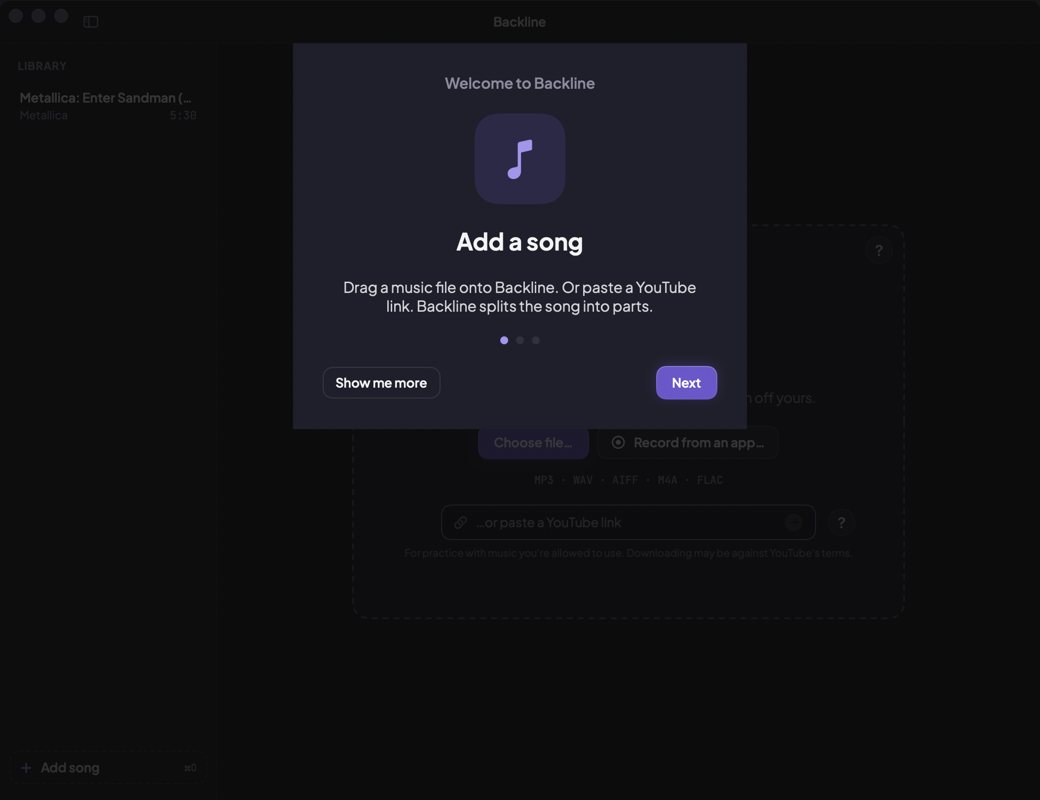
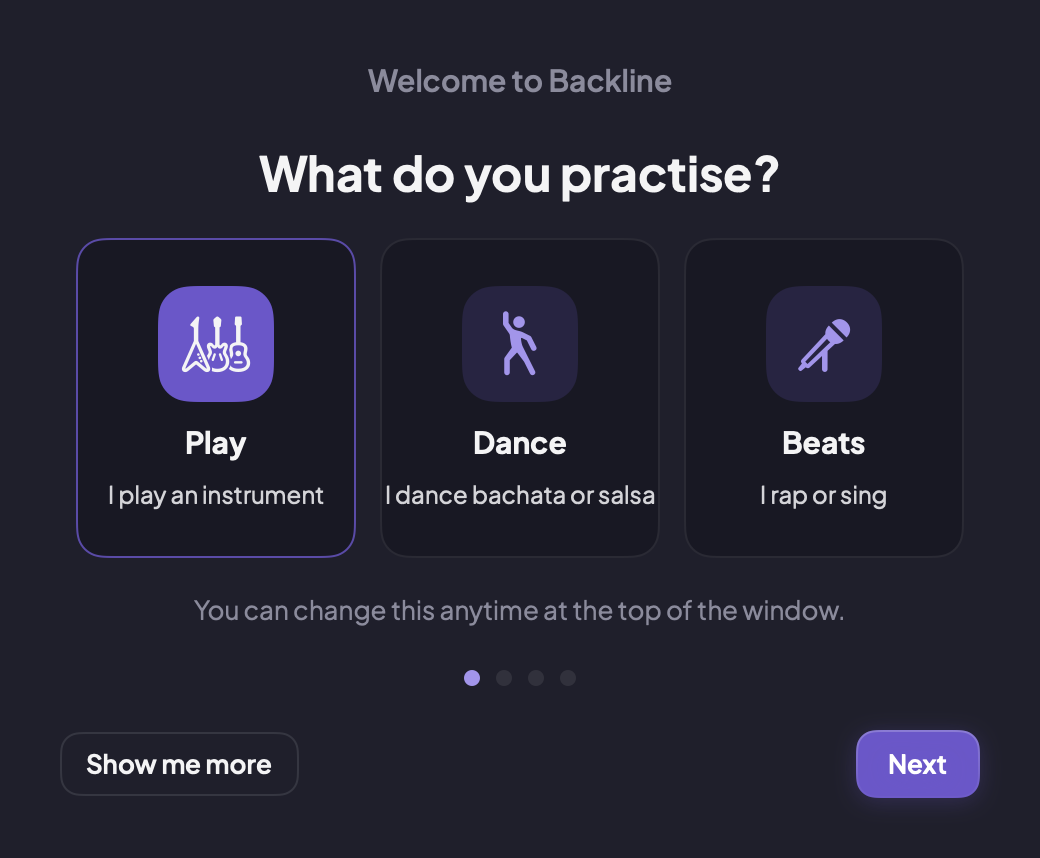
Backline 0.17: README and docs update
Published from the private development repository.

diff --git a/Backline/App/Snapshot.swift b/Backline/App/Snapshot.swift
@@ -254,6 +254,11 @@ enum Snapshotter {
                 NSApp.terminate(nil)
                 return
             }
+            if CommandLine.arguments.contains("--readme-shots") {
+                await readmeShots(model: model, dir: dir)
+                NSApp.terminate(nil)
+                return
+            }
             if CommandLine.arguments.contains("--help-shots") {
                 await helpShots(model: model, dir: dir)
                 NSApp.terminate(nil)
@@ -475,6 +480,105 @@ enum Snapshotter {
     }
 
     /// Welcome cards, every Help page, the sign-in window and the "needs sign-in" error screen.
+    /// `Backline --snapshot <dir> --readme-shots`: every picture in the README, from the real app, using
+    /// Kevin MacLeod's demo songs in the library (the library list is hidden so nothing personal shows).
+    ///   play.png · dance.png · beats.png · dance-count-in.png · mini-player.png · install-welcome.png
+    static func readmeShots(model: AppModel, dir: URL) async {
+        let originalMode = model.appMode
+        model.showSidebar = false
+        func open(_ title: String) async -> SongRecord? {
+            guard let rec = model.library.first(where: { $0.title.localizedCaseInsensitiveContains(title) }) else { return nil }
+            model.select(rec)
+            var waited = 0.0
+            while model.song?.id != rec.id && waited < 30 { try? await Task.sleep(for: .seconds(0.2)); waited += 0.2 }
+            try? await Task.sleep(for: .seconds(1.2))
+            return rec
+        }
+        var log = ""
+
+        // Play: the lead guitar is out, and a section is looping.
+        if await open("Volitile") != nil {
+            model.setMode(.play)
+            model.settings.removed = [.leadGuitar]
+            model.settings.countIn = true
+            if let s = model.sections.dropFirst(2).first { model.loopSection(s) }
+            try? await Task.sleep(for: .seconds(0.9))
+            capture(dir.appendingPathComponent("play.png"))
+            // The floating glass panel doesn't render into a bitmap capture, so the mini player view is drawn
+            // straight from SwiftUI, on the Backline dark colour, with the solid (non-glass) background.
+            GlassSurfaceOverride.forceSolid = true
+            let mini = MiniPlayerView()
+                .environment(model)
+                .frame(width: 440)
+                .padding(18)
+                .background(Theme.bg)
+            let renderer = ImageRenderer(content: mini)
+            renderer.scale = 2
+            if let cg = renderer.cgImage {
+                let rep = NSBitmapImageRep(cgImage: cg)
+                if let png = rep.representation(using: .png, properties: [:]) {
+                    try? png.write(to: dir.appendingPathComponent("mini-player.png"))
+                    log += "mini rendered \(cg.width)x\(cg.height)\n"
+                }
+            }
+            GlassSurfaceOverride.forceSolid = false
+            log += "play ok\n"
+        } else { log += "missing Volitile\n" }
+
+        // Dance: bachata, tap on the 1 already done, Listen for a part, an eight looping.
+        if await open("Big Rock") != nil {
+            model.setMode(.dance)
+            model.setDanceStyle(.bachata)
+            var w = 0.0   // the kit split makes the bongó / güira rows
+            while (model.song?.drumSplit == nil || !model.loadedTracks.contains(.kick)) && w < 240 {
+                try? await Task.sleep(for: .seconds(0.5)); w += 0.5
+            }
+            model.seek(to: 52)
+            model.setOneHere()
+            if let k = model.danceListenParts.first(where: { $0 == .snare || $0 == .hats || $0 == .drums }) { model.toggleSpotlight(k) }
+            model.loopCounts(8)
+            model.settings.countIn = true
+            model.seek(to: model.loopRange?.lowerBound ?? 52)
+            try? await Task.sleep(for: .seconds(0.6))
+            // Count-in: 5, 6, 7, 8.
+            model.togglePlay()
+            for _ in 0..<60 where model.countInBeat < 2 { try? await Task.sleep(for: .seconds(0.05)) }
+            capture(dir.appendingPathComponent("dance-count-in.png"))
+            for _ in 0..<80 where model.countInBeat > 0 || !model.isPlaying { try? await Task.sleep(for: .seconds(0.05)) }
+            try? await Task.sleep(for: .seconds(0.9))
+            capture(dir.appendingPathComponent("dance.png"))
+            model.togglePlay()
+            log += "dance ok rows=\(model.rows.map { model.label($0.kind) })\n"
+        } else { log += "missing Big Rock\n" }
+
+        // Beats: vocals off, the kit split, a 2-bar loop.
+        if await open("Metalmania") != nil {
+            model.setMode(.beats)
+            var w = 0.0
+            while (model.song?.drumSplit == nil || !model.loadedTracks.contains(.kick)) && w < 240 {
+                try? await Task.sleep(for: .seconds(0.5)); w += 0.5
+            }
+            model.seek(to: 40)
+            model.setOneHere()
+            model.loopBars(2)
+            try? await Task.sleep(for: .seconds(0.8))
+            capture(dir.appendingPathComponent("beats.png"))
+            log += "beats ok rows=\(model.rows.map { model.label($0.kind) })\n"
+        } else { log += "missing Metalmania\n" }
+
+        // First run.
+        model.setMode(.play)
+        model.showWelcome = true
+        try? await Task.sleep(for: .seconds(0.9))
+        if let sheet = NSApp.windows.first(where: { $0.isVisible && !($0 is MiniPanel) })?.attachedSheet {
+            captureWindow(sheet, to: dir.appendingPathComponent("install-welcome.png"))
+        }
+        model.showWelcome = false
+        model.appMode = originalMode
+        model.showSidebar = true
+        try? log.write(to: dir.appendingPathComponent("readme-shots.txt"), atomically: true, encoding: .utf8)
+    }
+
     static func helpShots(model: AppModel, dir: URL) async {
         model.showWelcome = true
         try? await Task.sleep(for: .seconds(0.8))

diff --git a/README.md b/README.md
@@ -17,14 +17,41 @@ Backline splits a song into instruments on your Mac. Nothing is uploaded. Pick h
 
 Then loop, slow down or speed up, count in, and save the result as a track.
 
-![Backline with the lead guitar removed](docs/images/mixer.png)
+![Backline in Play mode: the lead guitar is removed and a section is looping](docs/images/play.png)
+
+## Three ways to practise
+
+Switch at the top of any song, or press ⌘1, ⌘2 or ⌘3. Each mode shows only what that kind of practice
+needs, and each song remembers its mode.
+
+### Dance
+
+Made for bachata, salsa and other partner dances. **Listen for** brings one part forward (bongó, güira,
+bass, guitar…) while the rest plays softly. Play the song, **tap on the 1**, and the counts 1 to 8 run
+with the music. Nothing counts until you tap, so a wrong guess never confuses you. Loops are whole
+eights, and the count-in says 5, 6, 7, 8 like a teacher. In bachata the guitars are called requinto and
+segunda, and the drums split into bongó, güira and bombo.
+
+![Backline in Dance mode: Listen for the bongó, counts 1 to 8, bachata](docs/images/dance.png)
+
+<img src="docs/images/dance-count-in.png" alt="The Dance count-in: 5, 6, 7, 8, then the music" width="720">
+
+### Beats
+
+Made for rapping and singing over a beat. The singer starts off. One click loops 1, 2, 4 or 8 bars,
+starting right on the beat. Tap on the 1 and the bar and beat counter runs. The drums split into kick,
+snare, hi-hats and the rest. **Music** holds the guitars and keys, and opens into its parts when you
+click its arrow.
+
+![Backline in Beats mode: the drum kit, a 2 bar loop, and the bar counter](docs/images/beats.png)
 
 ## Quick install
 
 **You need:** a Mac with Apple silicon (M1 or newer, like a 2022 MacBook Air) running macOS 15 Sequoia,
 macOS 26 Tahoe or macOS 27 Golden Gate, and about 2 GB of free space.
 No Terminal and no admin password. The first time it opens, Backline quietly downloads two extra models
-(about 550 MB, once) that make the parts cleaner and split the drums.
+(about 550 MB, once) that make the parts cleaner and split the drums. Until they arrive, everything still
+works with the models built in.
 
 **1. Download.** Click **[Download Backline for Mac](https://github.com/alexpizarro/backline/releases/latest/download/Backline.dmg)**.
 Your browser saves **Backline.dmg** in **Downloads**.
@@ -41,13 +68,24 @@ your Mac asks *"Backline is an app downloaded from the Internet. Are you sure yo
 Click **Open**. That's normal for any app you download, and you only see it once. Backline is signed and
 checked by Apple, so you won't get any other warning.
 
-**4. Say hello.** A short welcome shows you the three things to know. Then drop in a song.
+**4. Say hello.** The welcome asks what you practise: play an instrument, dance, or rap and sing. That
+sets the first mode, and you can change it at the top of the window whenever you like. Then drop in a song.
 
-<img src="docs/images/install-welcome.png" alt="Backline's welcome screen" width="520">
+<img src="docs/images/install-welcome.png" alt="Backline's welcome screen: What do you practise? Play, Dance or Beats" width="520">
 
 **What to expect**
 - The first time you add a song, Backline takes a few seconds to split it (about 5 seconds on an M3 Max,
-  up to a minute on older Macs). After that, it opens instantly.
+  up to a minute on older Macs). After that, it opens instantly. A sharper model then splits it again in
+  the background, and the header says so. You can keep playing, and the cleaner parts swap in at your
+  next pause.
+- **Memory:** Backline keeps the parts of the song you're playing in memory (about 100 MB per minute of
+  song), and the two background models need a few hundred MB more while they run. **16 GB is
+  recommended**, and comfortable for songs up to about 10 minutes. **8 GB works for ordinary 3 to 5 minute
+  songs** if other big apps are closed; on 8 GB, let the cleaner pass finish before you play. On a busy
+  Mac the background steps just take longer. Backline stays usable and you can keep playing.
+- **Speed on an M1:** expect a few tens of seconds before a new song opens, and a few minutes for the
+  cleaner parts. Newer chips are several times faster.
+- **Space:** about 200 MB per song (the parts plus the original, so the cleaner pass can run later).
 - **Record from an app:** the first time, macOS asks if Backline can record your system audio. Click
   **Allow**. Backline only records the app you pick.
 - **YouTube links:** most just work. If YouTube says to sign in, Backline shows a button to sign in on
@@ -56,6 +94,7 @@ checked by Apple, so you won't get any other warning.
   Backline never sees your password.
 - **Help** is built in: choose **Help ▸ Backline Help**, or click any **?** button.
 - **To remove Backline,** drag it from Applications to the Trash. It doesn't install anything else.
+  The extra models and your songs live in its own folder (Settings ▸ Show Folder).
 
 ## Why it exists
 
@@ -65,8 +104,10 @@ the real band.
 Most stem-splitting apps, including [StemDeck](https://github.com/stemdeckapp/stemdeck), which inspired
 this project, give you a single guitar track. Mute it and the rhythm guitars disappear along with the
 solo, so you're left soloing over bass and drums. His main requirement was **separate lead and rhythm
-guitar**, so that's what Backline does best. Everything else in the app is built around practising that
-part.
+guitar**, so that's what Backline does best.
+
+Since then, other people asked to use it for dancing bachata and salsa, and for rapping and singing over
+beats with the drums split up. That is why Backline now has three modes, and why each one stays simple.
 
 If you want a cross-platform or general-purpose stem splitter, StemDeck is a better fit. See the
 [side-by-side comparison](docs/comparison-stemdeck.md).
@@ -77,42 +118,32 @@ for non-technical people, were reused here.
 
 ## What it does
 
-- **Three ways to practise.** Switch at the top of any song: **Play**, **Dance** or **Beats** (or ⌘1, ⌘2, ⌘3).
-  Each one shows only what that kind of practice needs. Each song remembers its mode.
-- **Dance:** "Listen for" brings one part forward (bongó, güira, bass, guitar…) while the rest plays
-  softly. Tap on the 1 and the counts 1 to 8 run with the music. Loops are whole eights, the count-in
-  says 5, 6, 7, 8, and bachata's guitars are called requinto and segunda.
-- **Beats:** the singer starts off. One click loops 1, 2, 4 or 8 bars, right on the beat. The drums split
-  into kick, snare, hi-hats and the rest, and Music opens into its parts when you want them.
-- **Cleaner parts.** Songs open in seconds, then a sharper model splits them again in the background
-  and the cleaner parts swap in by themselves.
 - **Lead and rhythm guitar as separate tracks.** Remove the solo and keep the rhythm. An AI model trained
-  on lead vs rhythm guitar works together with a stereo method, all built in, with nothing extra to install.
-  It works best on the usual metal/rock mix, with rhythm guitars panned left and right and the solo in the
-  centre.
-- **"I'm playing."** One click removes your part (lead, rhythm, bass, drums or vocals) and is remembered
-  for the next song. Guide mode plays your part quietly for reference.
-- **Slow down without changing key** from 50 % to 150 %. A **speed trainer** raises the tempo a little
-  each time the loop comes round.
+  on lead vs rhythm guitar works together with a stereo method, all built in. It works best on the usual
+  metal and rock mix, with rhythm guitars panned left and right and the solo in the centre.
+- **"I'm playing."** In Play mode, one click removes your part (lead, rhythm, bass, drums or vocals) and
+  is remembered for the next song. Guide mode plays your part quietly for reference.
+- **Cleaner parts.** Songs open in seconds, then a sharper model (BS-RoFormer) splits them again in the
+  background. On a standard test set every part comes out about 2 to 3 dB cleaner.
+- **A split drum kit.** Kick, snare, hi-hats and the rest, made on your Mac in about 10 to 30 seconds.
+- **Slow down or speed up without changing key** from 50 % to 150 %. A **speed trainer** raises the tempo
+  a little each time the loop comes round.
 - **Loops that snap to beats and bars.** Song sections are found automatically; click one to loop it.
   If a solo is found, the song opens with it already looped.
 - **Count-in and click** on the song's real beats. **Change the pitch** up to 12 frets up or down.
 - **Mini player** that floats over tabs, a DAW or a video lesson.
 - **Get songs in** from a file, a YouTube link, or by recording from any app on your Mac.
-- **Save a backing track** (WAV, AIFF or MP3) with your speed and pitch applied.
+- **Save a track** (WAV, AIFF or MP3) with your speed and pitch applied.
 - Everything runs on your Mac, on its graphics chip. A song is ready in about 11 seconds on an M3 Max; the
   cleaner parts follow about a minute later.
 
-<p>
-  <img src="docs/images/mini-player.png" alt="Mini player" width="440">
-  <img src="docs/images/count-in.png" alt="Count-in" width="380">
-</p>
+<img src="docs/images/mini-player.png" alt="The mini player, floating over other apps" width="440">
 
 ## Download
 
 It's free. See [Quick install](#quick-install) above. Every release is in
 [Releases](https://github.com/alexpizarro/backline/releases), signed with an Apple Developer ID and
-notarized by Apple.
+notarized by Apple. Each one lists what changed.
 
 Only use songs you're allowed to use. Downloading from YouTube may be against YouTube's terms. No songs
 are included with Backline.
@@ -127,7 +158,7 @@ are included with Backline.
 | [Ultimate Vocal Remover](https://github.com/Anjok07/ultimatevocalremovergui) | The go-to desktop app for vocal and instrument separation, with many models |
 | [python-audio-separator](https://github.com/nomadkaraoke/python-audio-separator) | Command-line and Python access to the UVR models |
 | [Music-Source-Separation-Training](https://github.com/ZFTurbo/Music-Source-Separation-Training) | Training code and many community models, including the BS-RoFormer and DrumSep models Backline downloads |
-| [Beat This!](https://github.com/CPJKU/beat_this) | Accurate beat and downbeat tracker. Backline uses it for the click and loop snapping |
+| [Beat This!](https://github.com/CPJKU/beat_this) | Accurate beat and downbeat tracker. Backline uses it for the click, the counts and loop snapping |
 | [Signalsmith Stretch](https://github.com/Signalsmith-Audio/signalsmith-stretch) | High-quality time-stretch and pitch-shift library behind Backline's speed control |
 | [JammLab](https://github.com/cyberflow/JammLab) | Another native macOS practice app with on-device stem separation |
 | [go-play-in-the-band](https://github.com/brucehoppe/go-play-in-the-band) | Play-along practice app for guitarists; the idea for Backline's speed trainer came from here |
@@ -154,20 +185,28 @@ swift test --package-path BacklineKit      # engine and DSP tests
 
 - **Code:** `Backline/` holds the app, `BacklineKit/` the audio engine and analysis, and `ml/` the model
   conversion scripts.
-- **Releases:** each release is a git tag (`v0.14`, …).
+- **The two extra models** (cleaner parts and the drum kit) are not in the repository. A build downloads
+  them the first time it runs, from the [models release](https://github.com/alexpizarro/backline/releases/tag/models-1),
+  and checks them. `ml/convert_roformer.py` and `ml/convert_drumsep.py` show how they were converted to
+  Core ML.
+- **Releases:** each release is a git tag (`v0.17`, …) with its installer attached.
 
 ## Licences
 
 - **Models:** BS-RoFormer SW (checkpoint by jarredou, no licence published) for the cleaner parts, and
   MDX23C DrumSep by jarredou and aufr33 (CC BY-NC-SA 4.0) for the drum kit. Both are downloaded once from
   this repo's [models release](https://github.com/alexpizarro/backline/releases/tag/models-1) and checked.
-  Beat This! (code and weights MIT). Lead/rhythm guitar model by drypaint (HTDemucs, via MVSep community). Demucs: the code is MIT; Meta's pretrained HTDemucs weights
-  are not under MIT and are described by their author as provided for research purposes. Backline is free
-  and non-commercial and credits them.
+  Beat This! (code and weights MIT). Lead/rhythm guitar model by drypaint (HTDemucs, via MVSep community).
+  Demucs: the code is MIT; Meta's pretrained HTDemucs weights are not under MIT and are described by their
+  author as provided for research purposes. Backline is free and non-commercial and credits them.
 - **Audio code:** Signalsmith Stretch and Linear (MIT). LAME (LGPL, loaded as a replaceable library).
 - **YouTube import:** yt-dlp (Unlicense), compiled with Nuitka, with its bundled libraries (certifi MPL-2.0,
   pycryptodomex BSD/Public Domain, Brotli MIT, websockets BSD, requests Apache-2.0, urllib3 MIT, yt-dlp-ejs
   Unlicense, CPython PSF). QuickJS-NG (MIT).
 - **Fonts:** Plus Jakarta Sans and JetBrains Mono (OFL).
 - **Full notices:** [Acknowledgements](Backline/Resources/Acknowledgements.txt).
-- **Screenshots:** the demo song is "Volatile Reaction" by Kevin MacLeod (incompetech.com, CC BY).
+- **Screenshots:** the demo songs are "Volatile Reaction", "Big Rock" and "Metalmania" by Kevin MacLeod
+  ([incompetech.com](https://incompetech.com), Creative Commons: By Attribution, CC BY).
+
+<!-- readme-reviewed-for: 0.17 -->
+<!-- screenshots-taken-with: 0.17 -->

diff --git a/docs/comparison-stemdeck.md b/docs/comparison-stemdeck.md
@@ -1,8 +1,10 @@
-# Backline vs StemDeck — for a musician or student
+# Backline vs StemDeck: for a musician or student
 
-*Compared 26 September 2026: Backline 0.13 against [StemDeck](https://github.com/stemdeckapp/stemdeck)
-0.18.1. Both were read from source, not marketing copy. StemDeck's own README comparison table is out of
-date (it still says there is no pitch shift or click track, and both exist now).*
+*Last updated 16 October 2026 for Backline 0.17. The first comparison, on 26 September, read both apps
+from source (Backline 0.13, [StemDeck](https://github.com/stemdeckapp/stemdeck) 0.18.1). The StemDeck
+column was brought up to its 0.20.0 release from its release notes only, so check its page for the
+latest. StemDeck's own README comparison table is out of date (it still says there is no pitch shift or
+click track, and both exist now).*
 
 Both apps split songs with the same open model, Meta's Demucs `htdemucs_6s`, so the raw stems sound much
 the same. The difference is what each app does with them. StemDeck is a general, cross-platform stem tool
@@ -13,7 +15,7 @@ out of a song and learn to play it.
 
 | For a musician or student | Backline | StemDeck |
 |---|---|---|
-| **Slow down** | 50–150 % in 5 % steps, key unchanged | Only 0.75× or 1× on desktop (their team found slower sounded bad). 0–2× slider in the phone view |
+| **Slow down** | 50–150 % in 5 % steps (slower and faster), key unchanged | Slower only: a 0.50× to 0.99× slow speed you set by scrolling, plus 1× (since 0.19.1, using the same Signalsmith Stretch library). 0–2× slider in the phone view |
 | **Speed trainer** (gets faster each loop) | Yes: start, step, every N loops, target | No |
 | **Transpose** | ±12 semitones for the whole song; drums never shift | ±6 semitones, and each instrument can be moved on its own |
 | **Remove my part** | "I'm playing" buttons, remembered between songs. Guide mode plays your part quietly (−15 dB) | No preset; mute stems yourself |
@@ -29,16 +31,24 @@ out of a song and learn to play it.
 | **Mixer** | Faders, on/off, solo | Same, plus level meters |
 | **Practising next to tabs or a DAW** | **Mini player** floating above full-screen apps; single-key shortcuts; PageUp/PageDown for page-turner pedals | About 6 shortcuts; open it on a phone over Wi-Fi via QR code |
 | **Where it runs** | macOS 15 or newer, Apple silicon only | Mac (Intel too, macOS 13+), Windows, Linux, Docker; 11 languages |
-| **Install** | Signed and notarized DMG; opens normally; no extra downloads | Unsigned on Mac (a Terminal command before first launch); downloads ~0.5 GB+ of runtime and models on first launch |
+| **Install** | Signed and notarized DMG; opens normally. Gets two extra models (about 550 MB) by itself in the background, and works without them meanwhile | Unsigned on Mac (a Terminal command before first launch); downloads ~0.5 GB+ of runtime and models on first launch |
 | **Separation speed** | Core ML on the Apple GPU: a 3:51 song in about 5 s on an M3 Max | PyTorch; in our measurements that path was about 3× slower on the same Mac |
+| **Drums** | Split into kick, snare, hi-hats and other drums (since 0.17), and into bongó, güira and bombo in Dance mode | One drums stem |
+| **Practice modes** | **Play**, **Dance** (counts 1 to 8, "listen for" one instrument, loops of whole eights, 5-6-7-8 count-in) and **Beats** (loops of 1 to 8 bars, bar counter, singer off), one switch | One studio for everything |
+| **Lyrics** | None | Finds lyrics and follows the singer line by line; you can time lines yourself |
+| **Explains itself** | Built-in Help and a first-run question that sets the mode | A Guide button that explains every control in the studio |
 | **Licence and community** | Free download; source public; one maintainer | Free, open source (Apache-2.0), ~3.9 k GitHub stars, Discord |
 
 ## Who each suits
 
 - **Guitar or instrument student learning parts and solos → Backline.** Half speed, the speed trainer,
   the lead/rhythm split, "I'm playing", beat-snapped loops and per-song memory all serve practice.
-  StemDeck's 0.75× floor is its biggest gap for students.
-- **Singer or karaoke → StemDeck.** Lead/backing vocal split, per-instrument transpose, karaoke video.
+  StemDeck now lets you set a slow speed, but it still can't speed a part up or ramp the tempo for you.
+- **Dancer (bachata, salsa) → Backline.** Counts 1 to 8 that you set by tapping on the 1, a "listen for"
+  row that brings one instrument forward, loops of whole eights, and a count-in that says 5, 6, 7, 8.
+- **Rapper or singer over a beat → Backline,** for the bar loops and the split drum kit.
+  **Singer who needs the words → StemDeck,** for lyrics that follow the vocal and a lead/backing vocal split,
+  per-instrument transpose and karaoke video.
 - **Producer, remixer or DAW user → StemDeck.** Individual stem export, FLAC, drag-to-DAW.
 - **Drummer, or anyone in prog or odd meters → StemDeck.** Better click and an editable beat grid.
 - **Anyone not on a recent Apple silicon Mac → StemDeck.** Backline won't run for them.
@@ -62,4 +72,5 @@ the split is less clean.
 ## What Backline could take from StemDeck
 
 Individual stem export · click volume and count-in length · a shown tuning offset (it is already
-detected) · library search · beat and bar lines on the waveform · a lead/backing vocal split.
+detected) · library search · a lead/backing vocal split · lyrics that follow the singer. (Beat and bar
+lines on the waveform came in 0.17 with the Dance and Beats modes.)
